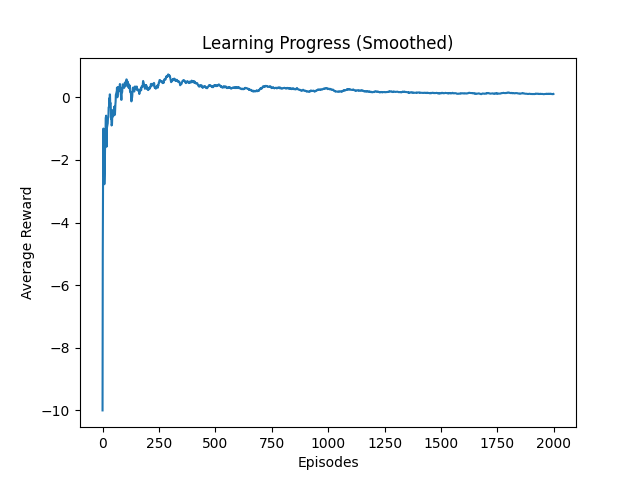
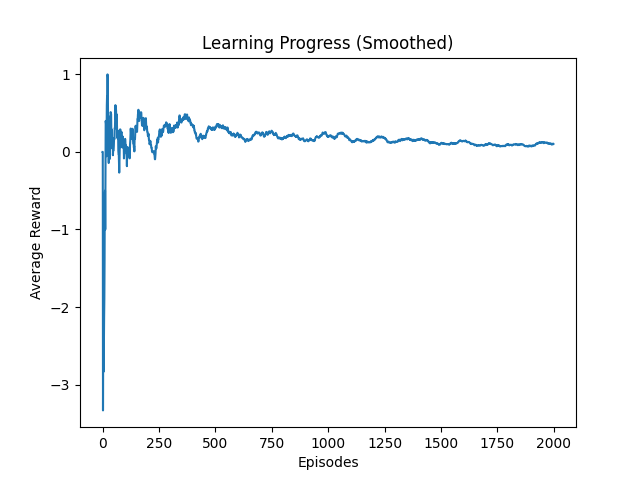
Add files via upload

diff --git a/env.py b/env.py
@@ -1,20 +1,26 @@
-import gym
-from gym import spaces
+import gymnasium as gym
+from gymnasium import spaces
 import random
 
 class CoupleConflictEnv(gym.Env):
     def __init__(self):
-        super(CoupleConflictEnv, self).__init__()
+        super().__init__()
 
         self.action_space = spaces.Discrete(4)
         self.observation_space = spaces.MultiDiscrete([3, 3, 10])
+        self.state = None
 
-    def reset(self):
+    def reset(self, seed=None, options=None):
+        super().reset(seed=seed)
         self.state = [
-            random.randint(0, 2),  # mood
-            random.randint(0, 2),  # severity
-            random.randint(0, 9)   # time_gap
+            random.randint(0, 2),
+            random.randint(0, 2),
+            random.randint(0, 9)
         ]
+        return self.state, {}
+
+    def set_state(self, state):
+        self.state = state
         return self.state
 
     def step(self, action):
@@ -41,5 +47,7 @@ class CoupleConflictEnv(gym.Env):
         if time_gap > 5 and action in [1, 2]:
             reward += 3
 
-        done = True
-        return self.state, reward, done, {}
+        terminated = True
+        truncated = False
+
+        return self.state, reward, terminated, truncated, {}

diff --git a/app.py b/app.py
@@ -1,0 +1,43 @@
+import gradio as gr
+import numpy as np
+from env import CoupleConflictEnv
+from tasks import TASKS
+from grader import grade
+
+env = CoupleConflictEnv()
+q_table = np.load("q_table.npy")
+
+def run_model():
+    results = []
+
+    output_text = ""
+
+    for task in TASKS:
+        state = env.set_state(task["state"])
+
+        action = np.argmax(q_table[state[0], state[1], state[2]])
+        score = grade(task, action)
+
+        output_text += f"Task: {task['name']}\n"
+        output_text += f"State: {state}\n"
+        output_text += f"Action: {action}\n"
+        output_text += f"Score: {score}\n"
+        output_text += "------\n\n"
+
+        results.append(score)
+
+    final_score = sum(results) / len(results)
+
+    output_text += f"Final Score: {final_score}"
+
+    return output_text
+
+demo = gr.Interface(
+    fn=run_model,
+    inputs=[],
+    outputs="text",
+    title="BhavanaBeginsML RL Demo"
+)
+
+if __name__ == "__main__":
+    demo.launch(server_name="0.0.0.0", server_port=7860)

diff --git a/train.py b/train.py
@@ -14,29 +14,21 @@ decay = 0.995
 rewards = []
 
 for episode in range(episodes):
-    state = env.reset()
+    state, _ = env.reset()
 
-    # Exploration vs Exploitation
     if random.uniform(0, 1) < epsilon:
         action = random.randint(0, 3)
     else:
         action = np.argmax(q_table[state[0], state[1], state[2]])
 
-    next_state, reward, done, _ = env.step(action)
+    next_state, reward, terminated, truncated, _ = env.step(action)
 
-    # Q-learning update
     q_table[state[0], state[1], state[2], action] += learning_rate * reward
 
     rewards.append(reward)
-
-    # Reduce exploration over time
     epsilon *= decay
 
+# 🔥 SAVE Q-TABLE
+np.save("q_table.npy", q_table)
+
 print("Training completed!")
-test_state = [0, 2, 7]  # angry, high severity, long gap
-best_action = np.argmax(q_table[test_state[0], test_state[1], test_state[2]])
-
-actions = ["Ignore", "Apologize", "Explain", "Give Space"]
-
-print("Test Scenario:", test_state)
-print("Best Action:", actions[best_action])

diff --git a/inference.py b/inference.py
@@ -1,0 +1,42 @@
+from env import CoupleConflictEnv
+from tasks import TASKS
+from grader import grade
+import numpy as np
+
+env = CoupleConflictEnv()
+
+# 🔥 LOAD TRAINED MODEL
+q_table = np.load("q_table.npy")
+
+def run():
+    results = []
+    details = []
+
+    for task in TASKS:
+        state = env.set_state(task["state"])
+
+        action = int(np.argmax(q_table[state[0], state[1], state[2]]))
+
+        score = grade(task, action)
+
+        # store details (instead of only printing)
+        details.append({
+            "task": task["name"],
+            "state": state,
+            "action": action,
+            "score": score
+        })
+
+        results.append(score)
+
+    final_score = sum(results) / len(results)
+
+    return final_score, details
+
+
+# Optional CLI run (still works locally)
+if _name_ == "_main_":
+    score, details = run()
+    print("Final Score:", score)
+    for d in details:
+        print(d)

diff --git a/plot.py b/plot.py
@@ -1,7 +1,6 @@
 import matplotlib.pyplot as plt
 from train import rewards
 
-# Smooth the graph
 window = 50
 avg_rewards = []
 
@@ -11,9 +10,5 @@ for i in range(len(rewards)):
 plt.plot(avg_rewards)
 plt.xlabel("Episodes")
 plt.ylabel("Average Reward")
-plt.title("Learning Progress (Smoothed)")
-
-# Save graph automatically
-plt.savefig("graph.png")
-
+plt.title("Learning Progress")
 plt.show()

diff --git a/tasks.py b/tasks.py
@@ -1,0 +1,5 @@
+TASKS = [
+    {"name": "easy", "state": [1, 0, 5], "expected_action": 1},
+    {"name": "medium", "state": [0, 1, 3], "expected_action": 3},
+    {"name": "hard", "state": [0, 2, 1], "expected_action": 3}
+]

diff --git a/grader.py b/grader.py
@@ -1,0 +1,2 @@
+def grade(task, action):
+    return 1.0 if action == task["expected_action"] else 0.0

diff --git a/README.md b/README.md
@@ -1,136 +1,26 @@
-# 💔 Emotion-Aware Conflict Resolution using Reinforcement Learning
+# Emotion-Aware Conflict Resolution using RL
 
-💡 Inspired by real-life human emotional decision-making rather than traditional game-based RL environments.
+## Problem
+Human conflicts often escalate due to poor emotional decisions and timing.
 
-🚀 Unlike traditional RL projects focused on games, this project models human emotional intelligence and decision-making in real-life conflict scenarios.
+## Solution
+This project simulates a relationship environment where an AI agent learns optimal responses based on emotional state, severity, and timing.
 
----
+## Features
+- Emotion-based decision making  
+- Severity-aware penalty system  
+- Timing-based reward optimization  
 
-## 📌 Problem
-Human conflicts often escalate due to poor emotional decisions and wrong timing. Handling emotions correctly is a key challenge in real-life interactions.
-
----
-
-## 💡 Solution
-This project simulates relationship conflict scenarios where a Reinforcement Learning (RL) agent learns to take better decisions based on:
-- Mood (angry, sad, normal)
-- Severity of the issue
-- Time gap between interactions
-
-The agent chooses actions like apologizing, explaining, ignoring, or giving space.
-
-The environment is modeled using a discrete state-action space and trained using a Q-learning approach.
-
----
-
-## ⚙ Features
-- Emotion-aware decision making  
-- Severity-based reward system  
-- Timing-based optimization  
-- Simple RL-based learning model
-
----
-
-## 🧠 Environment Design
-
-### State Space
-- Mood: Angry (0), Sad (1), Normal (2)
-- Severity: Low (0), Medium (1), High (2)
-- Time Gap: 0–9 (represents delay in response)
-
-### Action Space
-- 0 → Ignore  
-- 1 → Apologize  
-- 2 → Explain  
-- 3 → Give Space  
-
-### Reward Design
-- Emotion-sensitive rewards (based on mood)
-- Penalties for escalation
-- Bonus for correct timing
-- Severity-based negative rewards
----
-
-## 🎯 Actions
+## Actions
 - Ignore  
 - Apologize  
 - Explain  
 - Give Space  
 
----
+## Reward Strategy
+- Positive rewards for correct emotional response  
+- Negative rewards for wrong decisions  
+- Bonus for proper timing  
 
-## 🏆 Reward Strategy
-- Positive reward for emotionally appropriate actions  
-- Negative reward for wrong decisions  
-- Extra reward for correct timing  
-- Penalty for escalation-causing behavior  
-
----
-
-## 🧪 Example Scenario
-
-- Mood: Angry  
-- Severity: High  
-- Time Gap: Long  
-
-👉 Agent Decision: Give Space  
-
-This demonstrates how the model learns emotionally intelligent responses.
-
----
-
-## 📈 Learning Graph
-
-![Learning Graph](graph.png)
-
----
-
-## 🚀 Result
-The RL agent successfully learns to make emotionally appropriate decisions over time. 
-
-The improvement in reward trends demonstrates that the model adapts its behavior based on emotional context, severity, and timing, leading to more stable and intelligent responses.
-
----
-
-## 🎯 Sample Output
-
-State: Angry + High Severity + Long Delay  
-Predicted Action: Give Space  
-
-This demonstrates the agent's ability to learn emotionally intelligent behavior.
-
----
-## 🧠 Key Insight
-
-This project highlights how reinforcement learning can be extended beyond traditional environments to model human-centric decision making, where emotions and timing play a crucial role.
-
----
-
-## 🔮 Future Scope
-- Multi-step conversation modeling  
-- Integration with chatbot systems  
-- Emotion detection using NLP  
-- Real-world relationship assistant applications  
-
----
-
-## 🧠 Tech Stack
-- Python  
-- NumPy  
-- OpenAI Gym  
-- Matplotlib  
-
----
-
-## 📂 Project Structure
-couple-conflict-rl/
-│── env.py
-│── train.py
-│── plot.py
-│── graph.png
-│── README.md
-
----
-
-## 🎤 Author Note
-This project focuses on applying AI to human emotional intelligence rather than traditional technical problems, making it more relatable and impactful.
+## Result
+The agent improves over time, shown using reward graphs.
